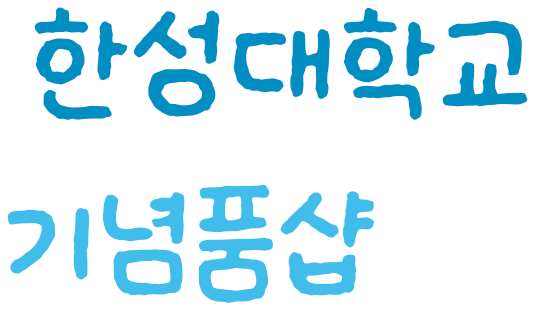
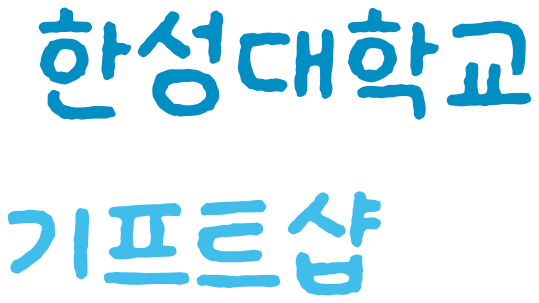
Navigator Adjustment

diff --git a/index.html b/index.html
@@ -6,13 +6,18 @@
 <head>
     <meta charset="utf-8">
     <meta name="keyword" content="한성, 상상부기, Hansung">
-    <meta name="description" content="한성대학교 기념품">
+    <meta name="description" content="한성대학교 기프트샵">
     <meta name="author" content="2491023-손한솔, 2491048-정연우 WebProgramming 기말 프로젝트">
     <meta name="viewport" content="width=device-width, initial-scale=1.0">
+    <title>한성대학교 기념품</title>
+    
     <link rel="stylesheet" href="https://cdnjs.cloudflare.com/ajax/libs/normalize/8.0.1/normalize.min.css" />
     <link rel="stylesheet" href="CSS/index.css">
     <script src="Javascript/navigator.js"></script>
-    <title>한성대학교 기념품</title>
+
+    <script>
+        const currentPage = "main";
+    </script>
 </head>
 
 <body>
@@ -26,7 +31,7 @@
                     </div>
                     <div class="flex-row">
                         <img src="Assets/logo.png" alt="한성대학교 로고" id="logo">
-                        <img src="Assets/intro_text.png" alt="한성대학교 기념품샵">
+                        <img src="Assets/intro_text.png" alt="한성대학교 기프트샵">
                     </div>
                     <div class="flex-column">
                         <div class="spacer"></div>
@@ -44,7 +49,7 @@
                     <label for="shop-btn">
                         <img src="Assets/mascot_3.png" alt="상상부기 3">
                     </label>
-                    <button id="shop-btn">
+                    <button id="shop-btn" class="btn">
                         <img src="Assets/buy_text.png" alt="구매하러가기">
                     </button>
                 </div>
@@ -163,11 +168,29 @@
     </section>
 
     <section id="univ">
+        <section id="univ-intro">
 
+        </section>
+        <section id="univ-history">
+
+        </section>
+        <section id="univ-info">
+
+        </section>
+        <section id="univ-bye">
+
+        </section>
     </section>
 
-    <section id="shop">
-
+    <section id="bye" class="container" style="padding-bottom: 0;">
+        <button id="bye-btn" class="btn">
+            <div class="flex-column">
+                <label for="bye-btn">
+                    구매하러가기
+                </label>
+                <img src="Assets/buy_text.png" alt="구매하러가기">
+            </div>
+        </button>
     </section>
 </body>
 

diff --git a/navigator.html b/navigator.html
@@ -32,22 +32,30 @@
             text-decoration: none;
             color: black;
         }
+
+        .current {
+            color: blue;
+        }
     </style>
+
+    <script>
+        document.getElementById(parent.currentPage).className = "current";
+    </script>
 </head>
 
 <body>
     <nav class="nav-row bold">
         <li>
-            <a href="index.html" target="_top">홈으로</button>
+            <a id="main" href="index.html" target="_top">홈으로</button>
         </li>
         <li>
-            <a href="shopping.html" target="_top">상품 목록</button>
+            <a id="shop" href="shopping.html" target="_top">상품 목록</button>
         </li>
         <li>
-            <a href="mypage.html" target="_top">마이페이지</button>
+            <a id="mypage" href="mypage.html" target="_top">마이페이지</button>
         </li>
         <li>
-            <a href="contact.html" target="_top">문의</button>
+            <a id="contact" href="contact.html" target="_top">문의</button>
         </li>
     </nav>
 </body>

diff --git a/CSS/index.css b/CSS/index.css
@@ -5,12 +5,15 @@
     font-style: normal;
 }
 
-/* Base styles */
+:root {
+    --background-color: rgba(252, 252, 249, 1);
+}
+
 html {
     font-family: "Ownglyph_ParkDaHyun";
     color: rgba(19, 52, 59, 1);
     ;
-    background-color: rgba(252, 252, 249, 1);
+    background-color: var(--background-color);
     -webkit-font-smoothing: antialiased;
     box-sizing: border-box;
 }
@@ -99,7 +102,7 @@ body {
 
 #intro-mascot {
     gap: 5%;
-    margin-bottom: 7%;
+    margin-bottom: 5%;
 }
 
 #intro-mascot img {
@@ -135,10 +138,14 @@ body {
     height: auto;
 }
 
-#shop-btn {
-    background-color: rgb(227, 227, 229);
+.btn {
+    background-color: var(--background-color);
     border: none;
     padding: 0;
+}
+
+#shop-btn {
+    background-color: rgb(227, 227, 229);
 }
 
 #hello img {
